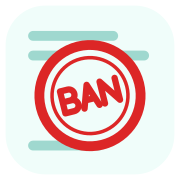
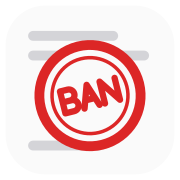
Charcoal and crimson colour scheme, light and dark
- Theme variables, editor accents, top bar and status strip move from teal to greys plus crimson
- Solid Ban button keeps the deep red in dark mode
- README logos, social preview and the icon card recoloured to match

diff --git a/app/templates/base.html b/app/templates/base.html
@@ -7,23 +7,23 @@
 <meta name="color-scheme" content="light dark">
 <title>{% block title %}Fail2ban Admin{% endblock %}</title>
 <link rel="icon" type="image/svg+xml" href="{{ url_for('static', filename='f2b-icon.svg', v=4) }}">
-<link rel="apple-touch-icon" href="{{ url_for('static', filename='apple-touch-icon.png', v=3) }}">
+<link rel="apple-touch-icon" href="{{ url_for('static', filename='apple-touch-icon.png', v=4) }}">
 <script src="{{ url_for('static', filename='app.js') }}"></script>
 {%- set f2b_starting = st is defined and st.starting is not none %}
 {%- set restart_watch = request.args.get('restarting') %}
 {% if f2b_starting and not restart_watch %}<meta http-equiv="refresh" content="4">{% endif %}
 {% block head %}{% endblock %}
 <style>
-  /* "Harbor" theme: cool grey-green background, deep blue-green sidebar, teal accent */
-  :root { color-scheme: light; --bg:#f3f7f7; --card:#ffffff; --fg:#12302f; --mut:#5d7472; --pri:#0d9488; --on-pri:#ffffff; --pri-soft:#d6f1ec; --pri-fg:#0b6b62; --bad:#dc2626; --ok:#15803d; --warn:#c27803; --bd:#dbe6e5; --side:#0f2a2e; --side-fg:#9fbcba; --side-on:#173a3f; --glow:#5eead4; --shadow:0 1px 0 rgba(15,42,46,.05), 0 2px 8px rgba(15,42,46,.04); }
+  /* "Charcoal and crimson" theme: neutral greys, near-black top bar, one crimson accent (matches the BAN stamp) */
+  :root { color-scheme: light; --bg:#f4f4f5; --card:#ffffff; --fg:#18181b; --mut:#52525b; --pri:#be123c; --on-pri:#ffffff; --pri-soft:#ffe4e6; --pri-fg:#be123c; --bad:#dc2626; --ok:#15803d; --warn:#c27803; --bd:#e4e4e7; --side:#18181b; --side-fg:#a1a1aa; --side-on:#27272a; --glow:#fb7185; --shadow:0 1px 0 rgba(24,24,27,.05), 0 2px 8px rgba(24,24,27,.04); }
   @media (prefers-color-scheme: dark) {
-    :root:not([data-theme="light"]) { color-scheme: dark; --bg:#0d1517; --card:#142023; --fg:#e2efed; --mut:#8aa3a0; --pri:#2dd4bf; --on-pri:#052e2a; --pri-soft:#123430; --pri-fg:#7eead9; --bad:#f87171; --ok:#34d399; --warn:#fbbf24; --bd:#22333a; --side:#081113; --side-fg:#86a3a0; --side-on:#11262a; --shadow:none; }
+    :root:not([data-theme="light"]) { color-scheme: dark; --bg:#0f0f11; --card:#18181b; --fg:#f4f4f5; --mut:#a1a1aa; --pri:#e11d48; --on-pri:#ffffff; --pri-soft:#3f0d1b; --pri-fg:#fda4af; --bad:#f87171; --ok:#34d399; --warn:#fbbf24; --bd:#27272a; --side:#09090b; --side-fg:#a1a1aa; --side-on:#1f1f23; --shadow:none; }
   }
-  :root[data-theme="dark"] { color-scheme: dark; --bg:#0d1517; --card:#142023; --fg:#e2efed; --mut:#8aa3a0; --pri:#2dd4bf; --on-pri:#052e2a; --pri-soft:#123430; --pri-fg:#7eead9; --bad:#f87171; --ok:#34d399; --warn:#fbbf24; --bd:#22333a; --side:#081113; --side-fg:#86a3a0; --side-on:#11262a; --shadow:none; }
+  :root[data-theme="dark"] { color-scheme: dark; --bg:#0f0f11; --card:#18181b; --fg:#f4f4f5; --mut:#a1a1aa; --pri:#e11d48; --on-pri:#ffffff; --pri-soft:#3f0d1b; --pri-fg:#fda4af; --bad:#f87171; --ok:#34d399; --warn:#fbbf24; --bd:#27272a; --side:#09090b; --side-fg:#a1a1aa; --side-on:#1f1f23; --shadow:none; }
   /* editor syntax colours and indent guides */
-  :root { --hl-sec:#0b6b62; --hl-key:#1d4ed8; --hl-str:#15803d; --hl-num:#b45309; --hl-kw:#9333ea; --ig:#dde8e7; --ig-on:#8fd6cc }
-  @media (prefers-color-scheme: dark) { :root:not([data-theme="light"]) { --hl-sec:#5eead4; --hl-key:#93c5fd; --hl-str:#86efac; --hl-num:#fcd34d; --hl-kw:#d8b4fe; --ig:#1c2a2e; --ig-on:#1f5f57 } }
-  :root[data-theme="dark"] { --hl-sec:#5eead4; --hl-key:#93c5fd; --hl-str:#86efac; --hl-num:#fcd34d; --hl-kw:#d8b4fe; --ig:#1c2a2e; --ig-on:#1f5f57 }
+  :root { --hl-sec:#be123c; --hl-key:#1d4ed8; --hl-str:#15803d; --hl-num:#b45309; --hl-kw:#9333ea; --ig:#e4e4e7; --ig-on:#fda4af }
+  @media (prefers-color-scheme: dark) { :root:not([data-theme="light"]) { --hl-sec:#fb7185; --hl-key:#93c5fd; --hl-str:#86efac; --hl-num:#fcd34d; --hl-kw:#d8b4fe; --ig:#232327; --ig-on:#5b1a2b } }
+  :root[data-theme="dark"] { --hl-sec:#fb7185; --hl-key:#93c5fd; --hl-str:#86efac; --hl-num:#fcd34d; --hl-kw:#d8b4fe; --ig:#232327; --ig-on:#5b1a2b }
 
   * { box-sizing:border-box }
   [hidden] { display:none !important }
@@ -45,10 +45,10 @@
   .topin .spacer { flex:1 }
   .topin form { margin:0 }
   .tsearch { position:relative; flex:0 1 220px; min-width:120px }
-  .tsearch input[type=search] { width:100%; padding:.42rem .6rem .42rem 2rem; border-radius:8px; border:1px solid color-mix(in srgb, var(--glow) 18%, transparent); background:rgba(0,0,0,.22); color:#e2efed; font:inherit; font-size:.88rem }
-  .tsearch input::placeholder { color:#6f918e }
-  .tsearch .ic { position:absolute; left:.6rem; top:50%; transform:translateY(-50%); color:#6f918e }
-  .tbtn { display:inline-flex; align-items:center; gap:.4rem; padding:.42rem .65rem; border-radius:8px; border:1px solid color-mix(in srgb, var(--glow) 18%, transparent); background:transparent; color:#d6e6e4; font:inherit; font-size:.86rem; cursor:pointer; white-space:nowrap }
+  .tsearch input[type=search] { width:100%; padding:.42rem .6rem .42rem 2rem; border-radius:8px; border:1px solid color-mix(in srgb, var(--glow) 18%, transparent); background:rgba(0,0,0,.22); color:#f4f4f5; font:inherit; font-size:.88rem }
+  .tsearch input::placeholder { color:#71717a }
+  .tsearch .ic { position:absolute; left:.6rem; top:50%; transform:translateY(-50%); color:#71717a }
+  .tbtn { display:inline-flex; align-items:center; gap:.4rem; padding:.42rem .65rem; border-radius:8px; border:1px solid color-mix(in srgb, var(--glow) 18%, transparent); background:transparent; color:#e4e4e7; font:inherit; font-size:.86rem; cursor:pointer; white-space:nowrap }
   .tbtn:hover { background:var(--side-on); color:#fff }
   .usermenu { position:relative }
   .usermenu > summary { list-style:none; cursor:pointer }
@@ -60,11 +60,11 @@
   .menu .who b { display:block; color:var(--fg); font-size:.95rem }
   .menu a, .menu button { display:flex; align-items:center; gap:.55rem; width:100%; padding:.5rem .7rem; border-radius:7px; border:0; background:none; color:var(--fg); font:inherit; font-size:.92rem; text-decoration:none; cursor:pointer; text-align:left }
   .menu a:hover, .menu button:hover { background:var(--bg) }
-  .strip { background:color-mix(in srgb, var(--pri) 7%, var(--bg)); border-bottom:1px solid var(--bd) }
+  .strip { background:color-mix(in srgb, var(--fg) 5%, var(--bg)); border-bottom:1px solid var(--bd) }
   .stripin { max-width:1360px; margin:0 auto; padding:.42rem 1.25rem; display:flex; flex-wrap:wrap; align-items:center; gap:.3rem 1.3rem; font-size:.84rem; color:var(--mut); min-height:2.1rem }
   .stripin b { color:var(--fg); font-weight:600 }
   .stripin .grow { flex:1 }
-  .dot { width:9px; height:9px; border-radius:50%; background:#8aa3a0; flex:none; display:inline-block; margin-right:.4rem; vertical-align:0 }
+  .dot { width:9px; height:9px; border-radius:50%; background:#a1a1aa; flex:none; display:inline-block; margin-right:.4rem; vertical-align:0 }
   .dot.ok { background:#22c55e; box-shadow:0 0 0 3px rgba(34,197,94,.2) } .dot.bad { background:#ef4444; box-shadow:0 0 0 3px rgba(239,68,68,.2) }
   .dot.warn { background:#f59e0b; box-shadow:0 0 0 3px rgba(245,158,11,.22) }
   main { max-width:1360px; margin:0 auto; padding:1.6rem 1.25rem 3rem }
@@ -111,7 +111,7 @@
   .btn:hover { filter:brightness(1.08) } .btn:active { transform:translateY(1px) }
   .btn[disabled] { opacity:.5; cursor:not-allowed }
   .btn.sec { background:var(--card); color:var(--fg); border-color:var(--bd) } .btn.sec:hover { background:var(--bg); filter:none; border-color:color-mix(in srgb, var(--pri) 40%, var(--bd)) }
-  .btn.bad { background:var(--bad); color:#fff }
+  .btn.bad { background:#dc2626; color:#fff }  /* the solid Ban button keeps the deep red in dark mode too (--bad is light there, for text) */
   .btn.ghost-bad { background:transparent; color:var(--bad); border-color:color-mix(in srgb, var(--bad) 40%, transparent) }
   .btn.ghost-bad:hover { background:color-mix(in srgb, var(--bad) 10%, transparent); filter:none }
   .btn.sm { padding:.28rem .7rem; font-size:.84rem; font-weight:600 }

diff --git a/CHANGELOG.md b/CHANGELOG.md
@@ -6,8 +6,10 @@ entries are headed by build date rather than by version.
 ## Unreleased
 
 ### Changed
-- New icon and banner: a red BAN stamp on a log page, replacing the shield (favicon, sign-in page, top bar,
-  apple-touch icon, README logos, social preview, transparent icon).
+- New colour scheme, "Charcoal and crimson", in light and dark: neutral greys, a near-black top bar and one
+  crimson accent, replacing the teal "Harbor" theme. The README logos and social preview match.
+- New icon and banner: a red BAN stamp on a log page, replacing the shield (apple-touch icon, README logos,
+  social preview). The browser tab, top bar and sign-in pages use the stamp alone, on a transparent background.
 - A jail's "Never ban" list folds like the log list: more than 3 entries show as "11 addresses", opening
   into a short scrolling list with a filter box when there are more than 10.
 - The ban forms no longer show "Your address": behind the Docker network it showed the gateway, not you.
